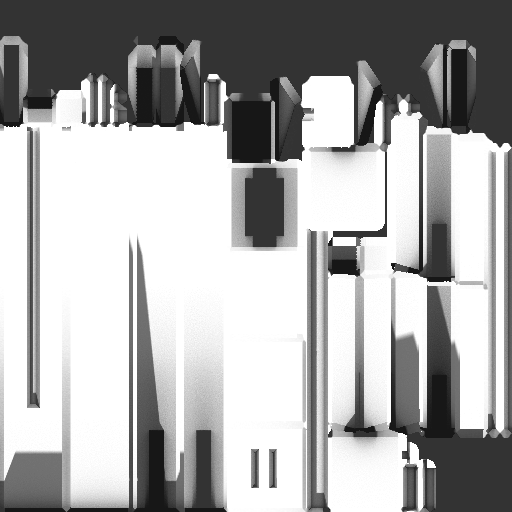
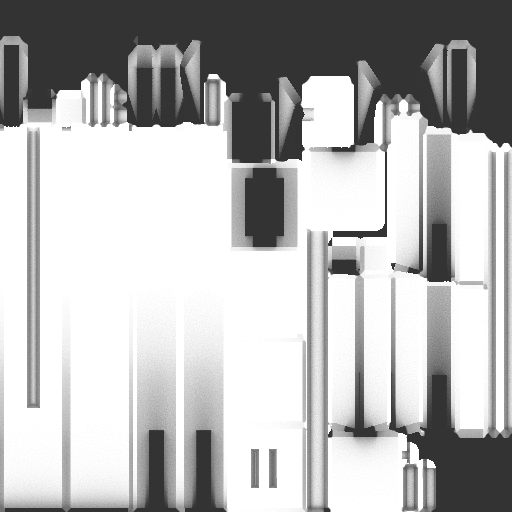
Deneme: devlerde sert gölge kaldırıldı, yalnız yumuşak köşe kararması
Claude-Session: https://claude.ai/code/session_016S88RPn945sNcGg6oLe6PH

diff --git a/tools/blender/giant.py b/tools/blender/giant.py
@@ -180,21 +180,16 @@ def render(dirpath, ob):
     shot("alttan", (10, -26, -6), (0, 0, 7.5))
 
 
-# Gölge işlemenin ışık yönü (ışığın gittiği yön, Blender eksenlerinde): oyundaki güneşin yanından
-# (sağdan, scenes/main.tscn Sun) ama daha tepeden; kollar koltuk altına ve gövdeye, baş omuzlara
-# gölge düşürür (oyundaki güneş neredeyse önden vurduğu için gerçek yönüyle gölge oluşmuyordu)
-SUN_DIR = Vector((-0.35, 0.22, -0.91))
 SHADE_SIZE = 512
-## İşlenmiş gölge: gölgede kalan yer bu kadar koyu (1 aydınlık), köşe kararması (AO) payı
-SHADOW_DARK = 0.45
+## Yumuşak köşe kararması (AO) payı ve ulaştığı uzaklık (m): kolla gövde arası, koltuk altı, boyun,
+## oluk ve göz yarıkları yumuşakça kararır (sert güneş gölgesi yok)
 AO_MIX = 0.8
-## Köşe kararmasının ulaştığı uzaklık (m): kolla gövde arası, koltuk altı, boyun belirgin kararır
 AO_DIST = 3.0
 
 
 def bake_shade(ob, path):
-    """Oyundaki güneş yönüne göre gölge ve köşe kararmasını (AO) dokuya işler (UV0). Oyun bu dokuyu
-    rengin üstüne çarpar: kolların altı, kolun gövdeye düşürdüğü gölge koyu (uzakta da doğru, ek yük yok)."""
+    """Yumuşak köşe kararmasını (ambient occlusion) dokuya işler (UV0). Oyun bu dokuyu rengin üstüne
+    çarpar; ışık ve yüzlerin açık-koyusu oyunun kendi güneşinden gelir (uzakta da doğru, ek yük yok)."""
     import numpy as np
     scene = bpy.context.scene
     scene.render.engine = "CYCLES"
@@ -206,54 +201,29 @@ def bake_shade(ob, path):
     bpy.ops.mesh.select_all(action="SELECT")
     bpy.ops.uv.smart_project(angle_limit=math.radians(66), island_margin=0.02)
     bpy.ops.object.mode_set(mode="OBJECT")
-    sun = bpy.data.objects.new("bake_sun", bpy.data.lights.new("bake_sun", "SUN"))
-    sun.data.energy = 3.0
-    sun.data.angle = math.radians(1.0)
-    sun.rotation_euler = SUN_DIR.to_track_quat("-Z", "Y").to_euler()
-    scene.collection.objects.link(sun)
     world = bpy.data.worlds.new("bake_w")
     world.use_nodes = True
-    world.node_tree.nodes["Background"].inputs[1].default_value = 0.0
     world.light_settings.distance = AO_DIST
     scene.world = world
-    out = {}
-
-    def bake(kind, key, **kw):
-        img = bpy.data.images.new("bake_" + key, SHADE_SIZE, SHADE_SIZE, float_buffer=True)
-        for slot in ob.material_slots:
-            nt = slot.material.node_tree
-            node = nt.nodes.get("bake_tex") or nt.nodes.new("ShaderNodeTexImage")
-            node.name = "bake_tex"
-            node.image = img
-            nt.nodes.active = node
-        bpy.ops.object.bake(type=kind, margin=8, **kw)
-        out[key] = np.array(img.pixels[:], dtype=np.float32).reshape(SHADE_SIZE, SHADE_SIZE, 4)[:, :, 0]
-
-    # Gölge = güneşin doğrudan ışığı (gölgeli) / aynı ışık gölgesiz: yalnız örtülme (yüzün ışığa
-    # bakıp bakmaması değil; onu oyunun kendi ışığı yapar). Işığa bakmayan yüzlerde 1 (karartma yok)
-    bake("DIFFUSE", "lit", pass_filter={"DIRECT"})
-    sun.data.use_shadow = False
-    bake("DIFFUSE", "open", pass_filter={"DIRECT"})
-    bake("AO", "ao")
-    lit, opn = out["lit"], out["open"]
-    vis = np.where(opn > 1e-3, np.clip(lit / np.maximum(opn, 1e-3), 0.0, 1.0), 1.0)
-    out["SHADOW"] = vis
-    out["AO"] = out["ao"]
-    for k in ("SHADOW", "AO"):
-        print("bake", k, "min", float(out[k].min()), "mean", float(out[k].mean()))
-    shade = (SHADOW_DARK + (1.0 - SHADOW_DARK) * np.clip(out["SHADOW"], 0, 1)) * (1.0 - AO_MIX + AO_MIX * np.clip(out["AO"], 0, 1))
+    img = bpy.data.images.new("bake_ao", SHADE_SIZE, SHADE_SIZE, float_buffer=True)
+    for slot in ob.material_slots:
+        nt = slot.material.node_tree
+        node = nt.nodes.new("ShaderNodeTexImage")
+        node.name = "bake_tex"
+        node.image = img
+        nt.nodes.active = node
+    bpy.ops.object.bake(type="AO", margin=8)
+    ao = np.array(img.pixels[:], dtype=np.float32).reshape(SHADE_SIZE, SHADE_SIZE, 4)[:, :, 0]
+    shade = 1.0 - AO_MIX + AO_MIX * np.clip(ao, 0.0, 1.0)
     res = bpy.data.images.new("giant_shade", SHADE_SIZE, SHADE_SIZE)
-    rgba = np.stack([shade, shade, shade, np.ones_like(shade)], axis=2)
-    res.pixels[:] = rgba.ravel().tolist()
+    res.pixels[:] = np.stack([shade, shade, shade, np.ones_like(shade)], axis=2).ravel().tolist()
     res.filepath_raw = path
     res.file_format = "PNG"
     res.save()
     # Bake düğümlerini kaldır (glTF'ye doku olarak girmesin; oyun dokuyu ayrıca yükler)
     for slot in ob.material_slots:
         nt = slot.material.node_tree
-        if nt.nodes.get("bake_tex"):
-            nt.nodes.remove(nt.nodes["bake_tex"])
-    bpy.data.objects.remove(sun)
+        nt.nodes.remove(nt.nodes["bake_tex"])
     print("yazıldı", path)
 
 
